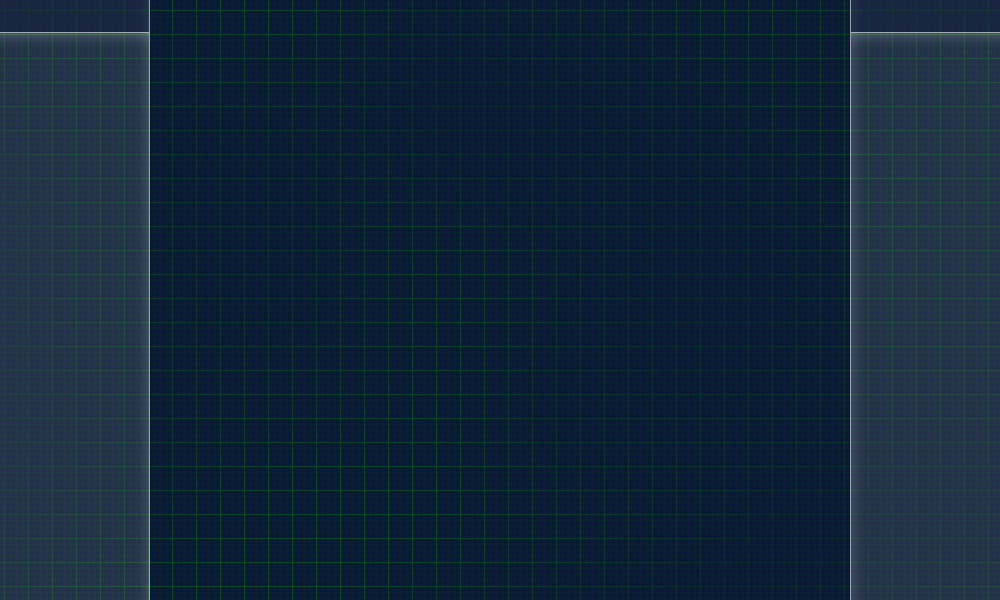
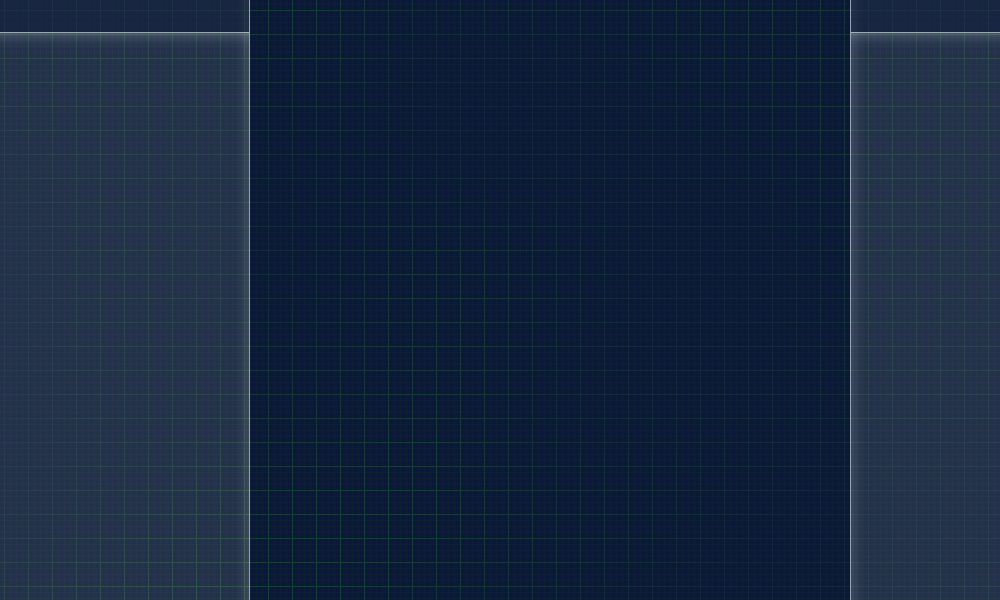
actions

Changed region(s): [[0.124, 0.03, 0.248, 1.0]]

diff --git a/game/conf.py b/game/conf.py
@@ -101,11 +101,13 @@ class Conf (object):
                     SOUNDS[ident] = n + 1
 
     # graphics
-    UI_WIDTH = 149 # has 1px border in bg.png
-    WMAP_RECT = (UI_WIDTH, 0, RES[0] - 2 * UI_WIDTH, RES[1])
-    NEWS_LIST_RECT = (0, 40, UI_WIDTH, RES[1])
-    rhs_ui = RES[0] - UI_WIDTH
-    ACTIONS_LIST_RECT = (rhs_ui, 40, UI_WIDTH, RES[1])
+    sidebar_t = 40
+    NEWS_LIST_RECT = (0, sidebar_t, 249, RES[1] - sidebar_t)
+    actions_w = 149
+    ACTIONS_LIST_RECT = (RES[0] - actions_w, sidebar_t, actions_w,
+                         RES[1] - sidebar_t)
+    WMAP_RECT = (NEWS_LIST_RECT[2], 0, RES[0] - NEWS_LIST_RECT[2] - actions_w,
+                 RES[1])
     # world map
     PERSON_ICON_RADIUS = 5
     WMAP_BORDER = 15 # contains no people
@@ -135,6 +137,7 @@ class Conf (object):
     })
 
     # gameplay
+    DAY_FRAMES = FPS['level']
     # world map initialisation
     PERSON_NEAREST = 20
     NUM_PEOPLE = 50
@@ -143,8 +146,8 @@ class Conf (object):
     SHORT_CONNECTION_BIAS = 4
     METHODS_PER_CON = lambda: gammavariate(3, .5)
     # world map: running
-    # if dist, speed is in pixels per second
-    # else time is in frames
+    # if dist, speed is in pixels per day
+    # else time is in days
     METHODS = {
         'phone': {'dist': False, 'time': 6, 'freq': 1},
         'in person': {'dist': True, 'speed': 2, 'freq': 1},
@@ -162,6 +165,35 @@ class Conf (object):
         'skywriting': {'dist': False, 'time': 6, 'freq': 1},
         'telegraph': {'dist': False, 'time': 6, 'freq': 1}
     }
+    # type: 'c' (connection), 'p' (person) or 'a' (area); area type requires
+    #       radius in pixels
+    # time: triangular distribution (min, mean, max) in days
+    # news: {text: freq} or tuple of texts for equal freqs; texts can contain
+    #       %t for time, %r for time range
+    ACTIONS = [
+        {
+            'desc': 'cut phone line',
+            'type': 'c',
+            'cost': 10,
+            'affects': ('phone', 'fax', 'telegraph'),
+            'time': (5, 7, 10),
+            'news': (
+'An engineer will be sent to fix reported telephone outages.  Job time ' \
+'estimate: %t.',
+            )
+        }, {
+            'desc': 'broadcast jamming signal',
+            'type': 'a',
+            'radius': 150,
+            'cost': 10,
+            'affects': ('telepathy', 'radio', 'pager'),
+            'time': (4, 6, 7),
+            'news': (
+'Dispruptions to wireless services have been detected.  We expect to find ' \
+'the source in %r.',
+            )
+        }
+    ]
 
 
 def translate_dd (d):

diff --git a/game/level.py b/game/level.py
@@ -4,6 +4,7 @@ from conf import conf
 from util import combine_drawn
 import ui
 from wmap import Map
+from action import Action
 
 
 def _setup_widgets (bg, *ws):
@@ -14,23 +15,22 @@ def _setup_widgets (bg, *ws):
 
 
 def mk_ui (bg):
-    ui_w = conf.UI_WIDTH
     news_r = conf.NEWS_LIST_RECT
     actions_r = conf.ACTIONS_LIST_RECT
     wmap = Map(conf.WMAP_RECT[2:])
     c = ui.Container(
         (conf.WMAP_RECT[:2], wmap),
-        ((news_r[0], 0), ui.Head((ui_w, conf.UI_HEAD_HEIGHT), 'NEWS')),
-        ((news_r[:2]), ui.List(news_r[2:],
-            ui.ListItem(ui_w, 'Aoeu netoahun saothuntseoha tnshoeu.'),
-            ui.ListItem(ui_w, 'Ft taoes oaetuheoa uthtonsu heontuhenot hth otn.'),
-            ui.ListItem(ui_w, 'Ihen otheo th.')
+        ((news_r[0], 0), ui.Head((news_r[2], conf.UI_HEAD_HEIGHT), 'NEWS')),
+        (news_r[:2], ui.List(news_r[2:],
+            ui.ListItem(news_r[2], 'Aoeu netoahun saothuntseoha tnshoeu.'),
+            ui.ListItem(news_r[2], 'Ft taoes oaetuheoa uthtonsu heontuhenot hth otn.'),
+            ui.ListItem(news_r[2], 'Ihen otheo th.')
         )),
-        ((actions_r[0], 0), ui.Head((ui_w, conf.UI_HEAD_HEIGHT), 'ACTIONS')),
-        ((actions_r[:2]), ui.List(actions_r[2:],
-            ui.Button(ui_w, 'Oeaunth ehuoetnhu ehaotnuh aoeu hnaoe.', lambda: True),
-            ui.Button(ui_w, 'C anoethu aotnsehuaoet hunst aohs.', lambda: True)
-        ))
+        ((actions_r[0], 0),
+         ui.Head((actions_r[2], conf.UI_HEAD_HEIGHT), 'ACTIONS')),
+        (actions_r[:2], ui.List(actions_r[2:], *[
+            Action(action).button for action in conf.ACTIONS
+        ]))
     )
     _setup_widgets(bg, c)
     return (c, wmap)

diff --git a/game/wmap.py b/game/wmap.py
@@ -8,13 +8,13 @@ from util import ir, weighted_rand
 from ui import Widget
 
 
-def method_speed (method, fps, dist):
+def method_speed (method, dist):
     """Get a method's speed in fraction of total distance per frame."""
     method = conf.METHODS[method]
     if method['dist']:
-        return float(method['speed']) / (fps * dist)
+        return float(method['speed']) / (conf.DAY_FRAMES * dist)
     else:
-        return 1. / (fps * method['time'])
+        return 1. / (conf.DAY_FRAMES * method['time'])
 
 
 class Connection (object):
@@ -54,9 +54,7 @@ current_method: the method currently being used to send a message (None if
         self.people = people
         self.dist = dist = people[0].dist(people[1]) - \
                            2 * conf.PERSON_ICON_RADIUS
-        fps = conf.FPS[None]
-        methods = reversed(sorted((method_speed(m, fps, dist), m)
-                                  for m in methods))
+        methods = reversed(sorted((method_speed(m, dist), m) for m in methods))
         self.methods = OrderedDict((m, {'allowed': True, 'speed': s})
                                    for s, m in methods)
         self.sending = False

diff --git a/game/action.py b/game/action.py
@@ -1,0 +1,22 @@
+from random import choice, triangular
+
+from conf import conf
+from util import ir, weighted_rand
+import ui
+
+
+class Action (object):
+    def __init__ (self, data):
+        for k, v in data.iteritems():
+            setattr(self, k, v)
+        if not isinstance(self.news, dict):
+            self.news = dict((n, 1) for n in self.news)
+        self.button = ui.Button(conf.ACTIONS_LIST_RECT[2], self.desc, self.do)
+
+    def do (self):
+        tr = self.time
+        t = triangular(*tr)
+        news = weighted_rand(self.news).replace('%t', str(ir(t)) + ' days')
+        news = news.replace('%r', '{0}-{1} days'.format(tr[0], tr[2]))
+        t = ir(t * conf.DAY_FRAMES)
+        print news
